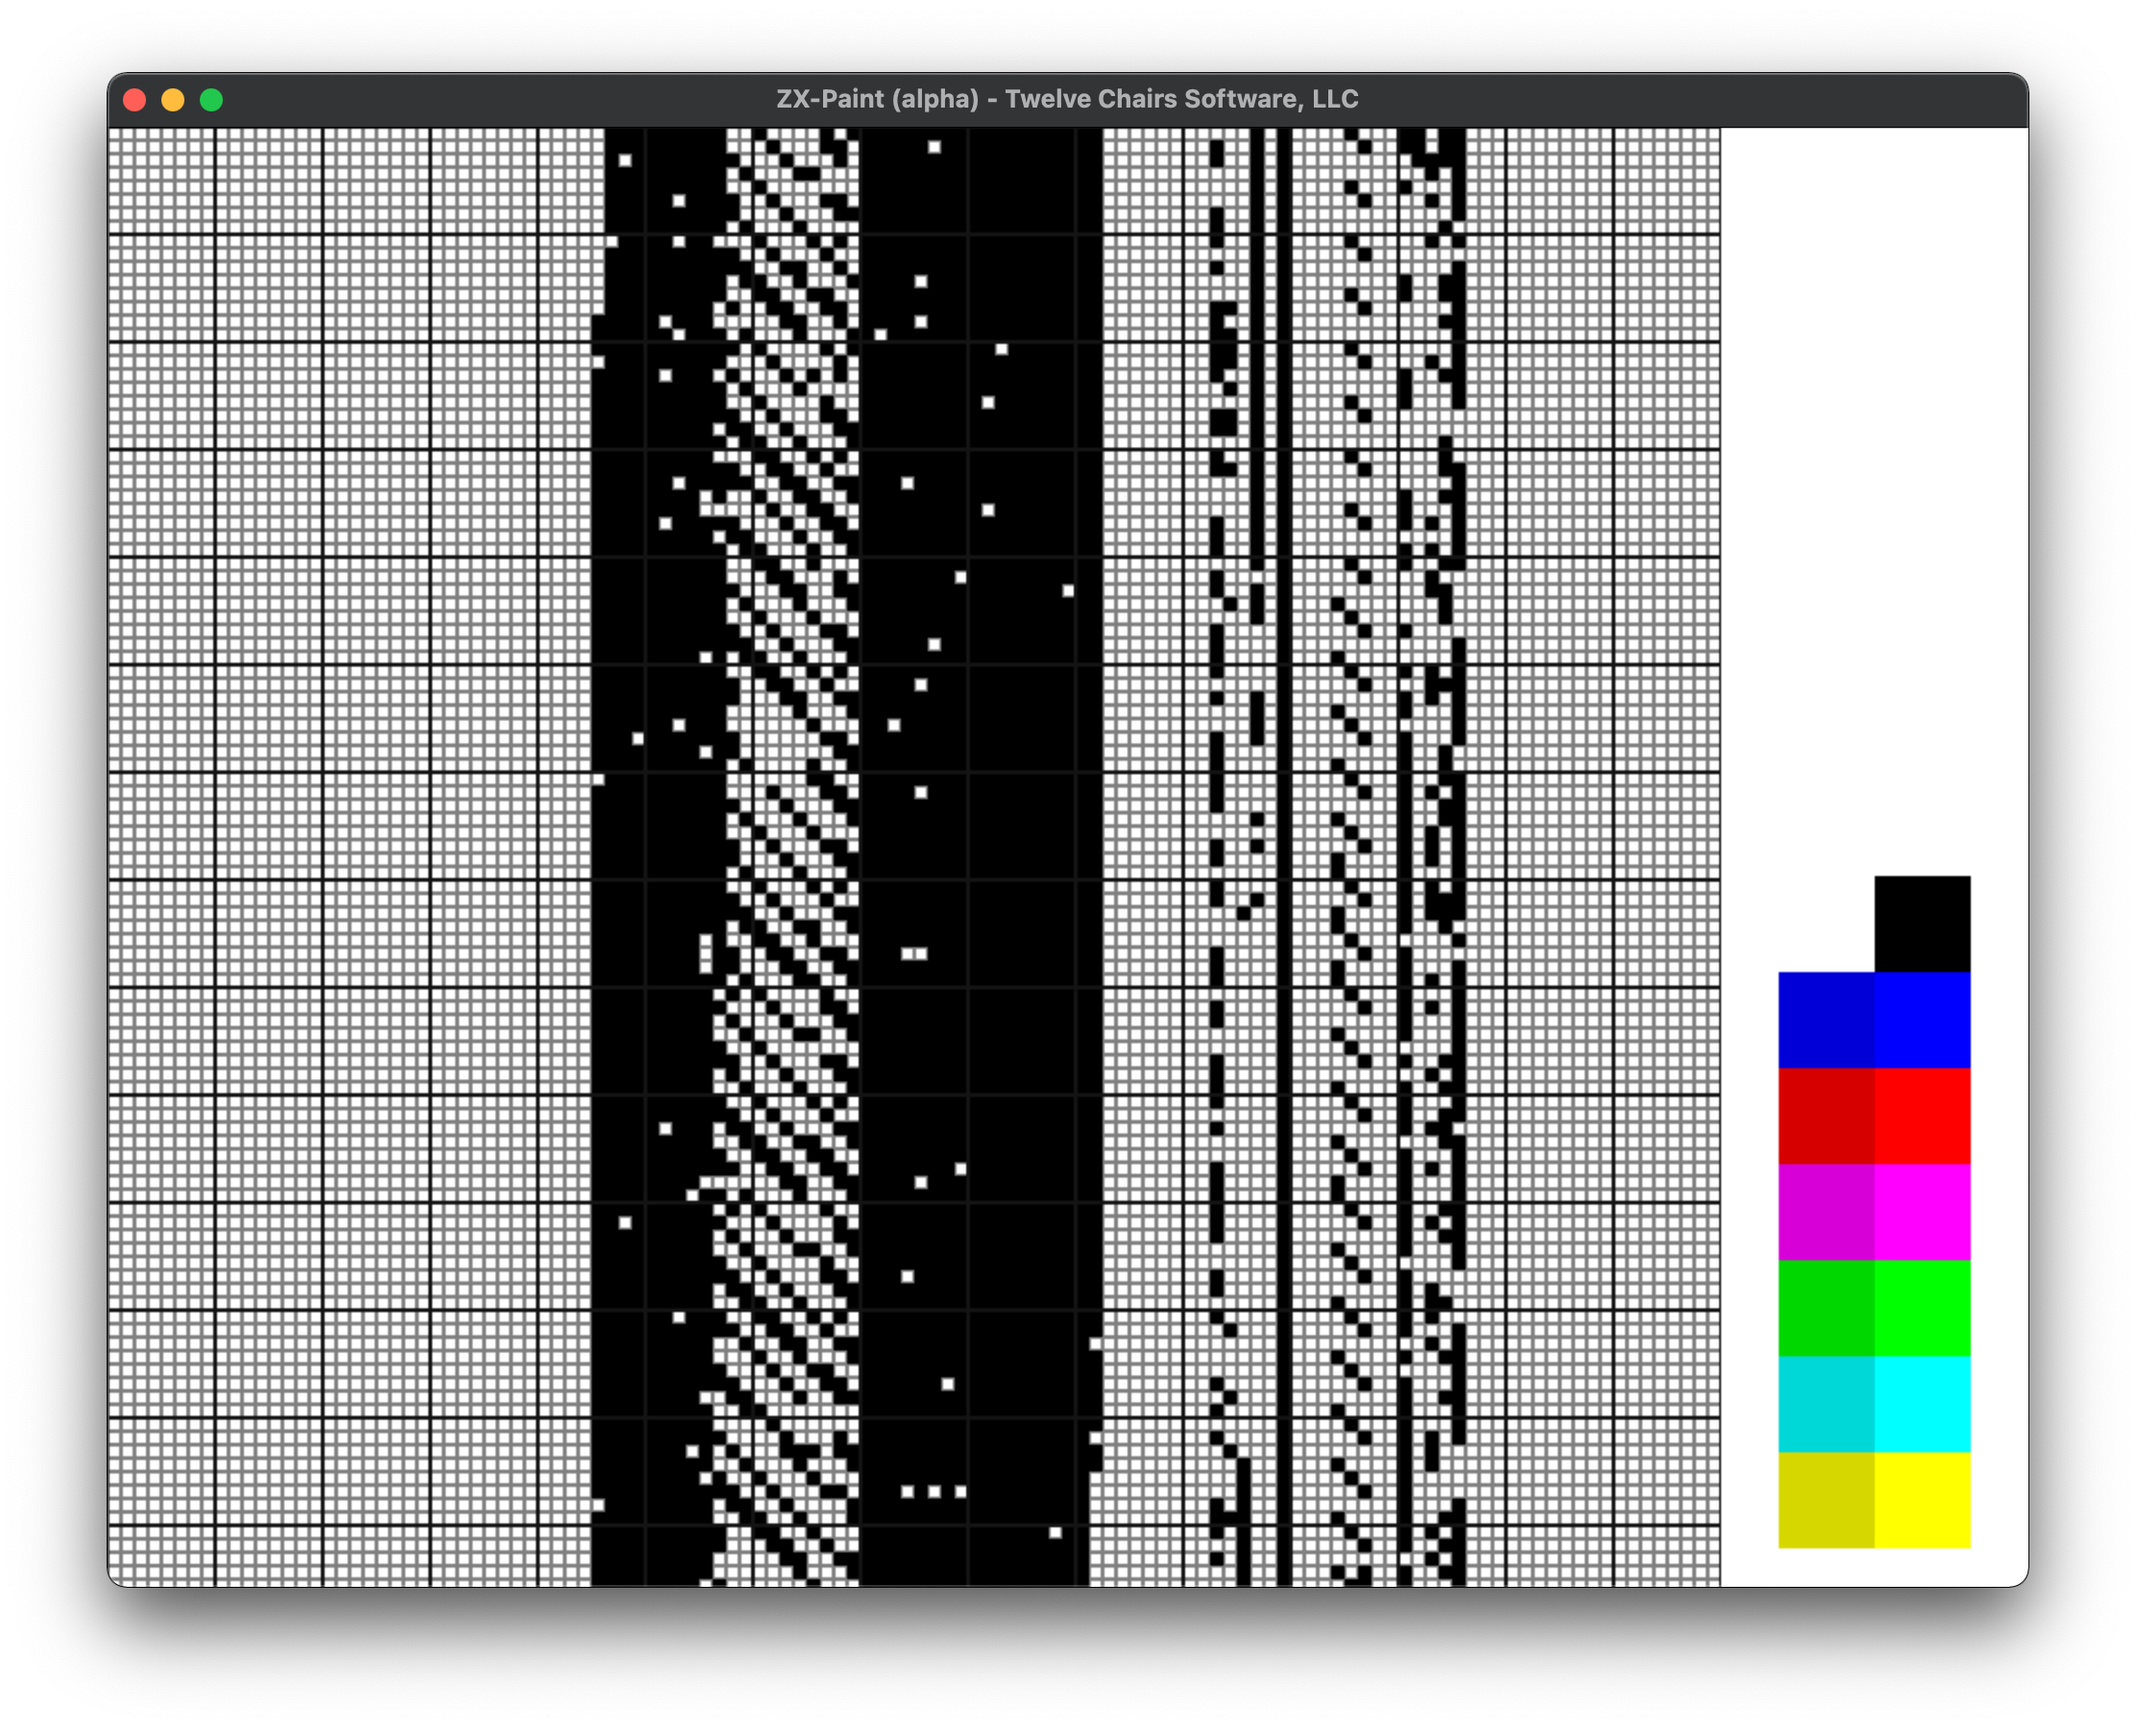
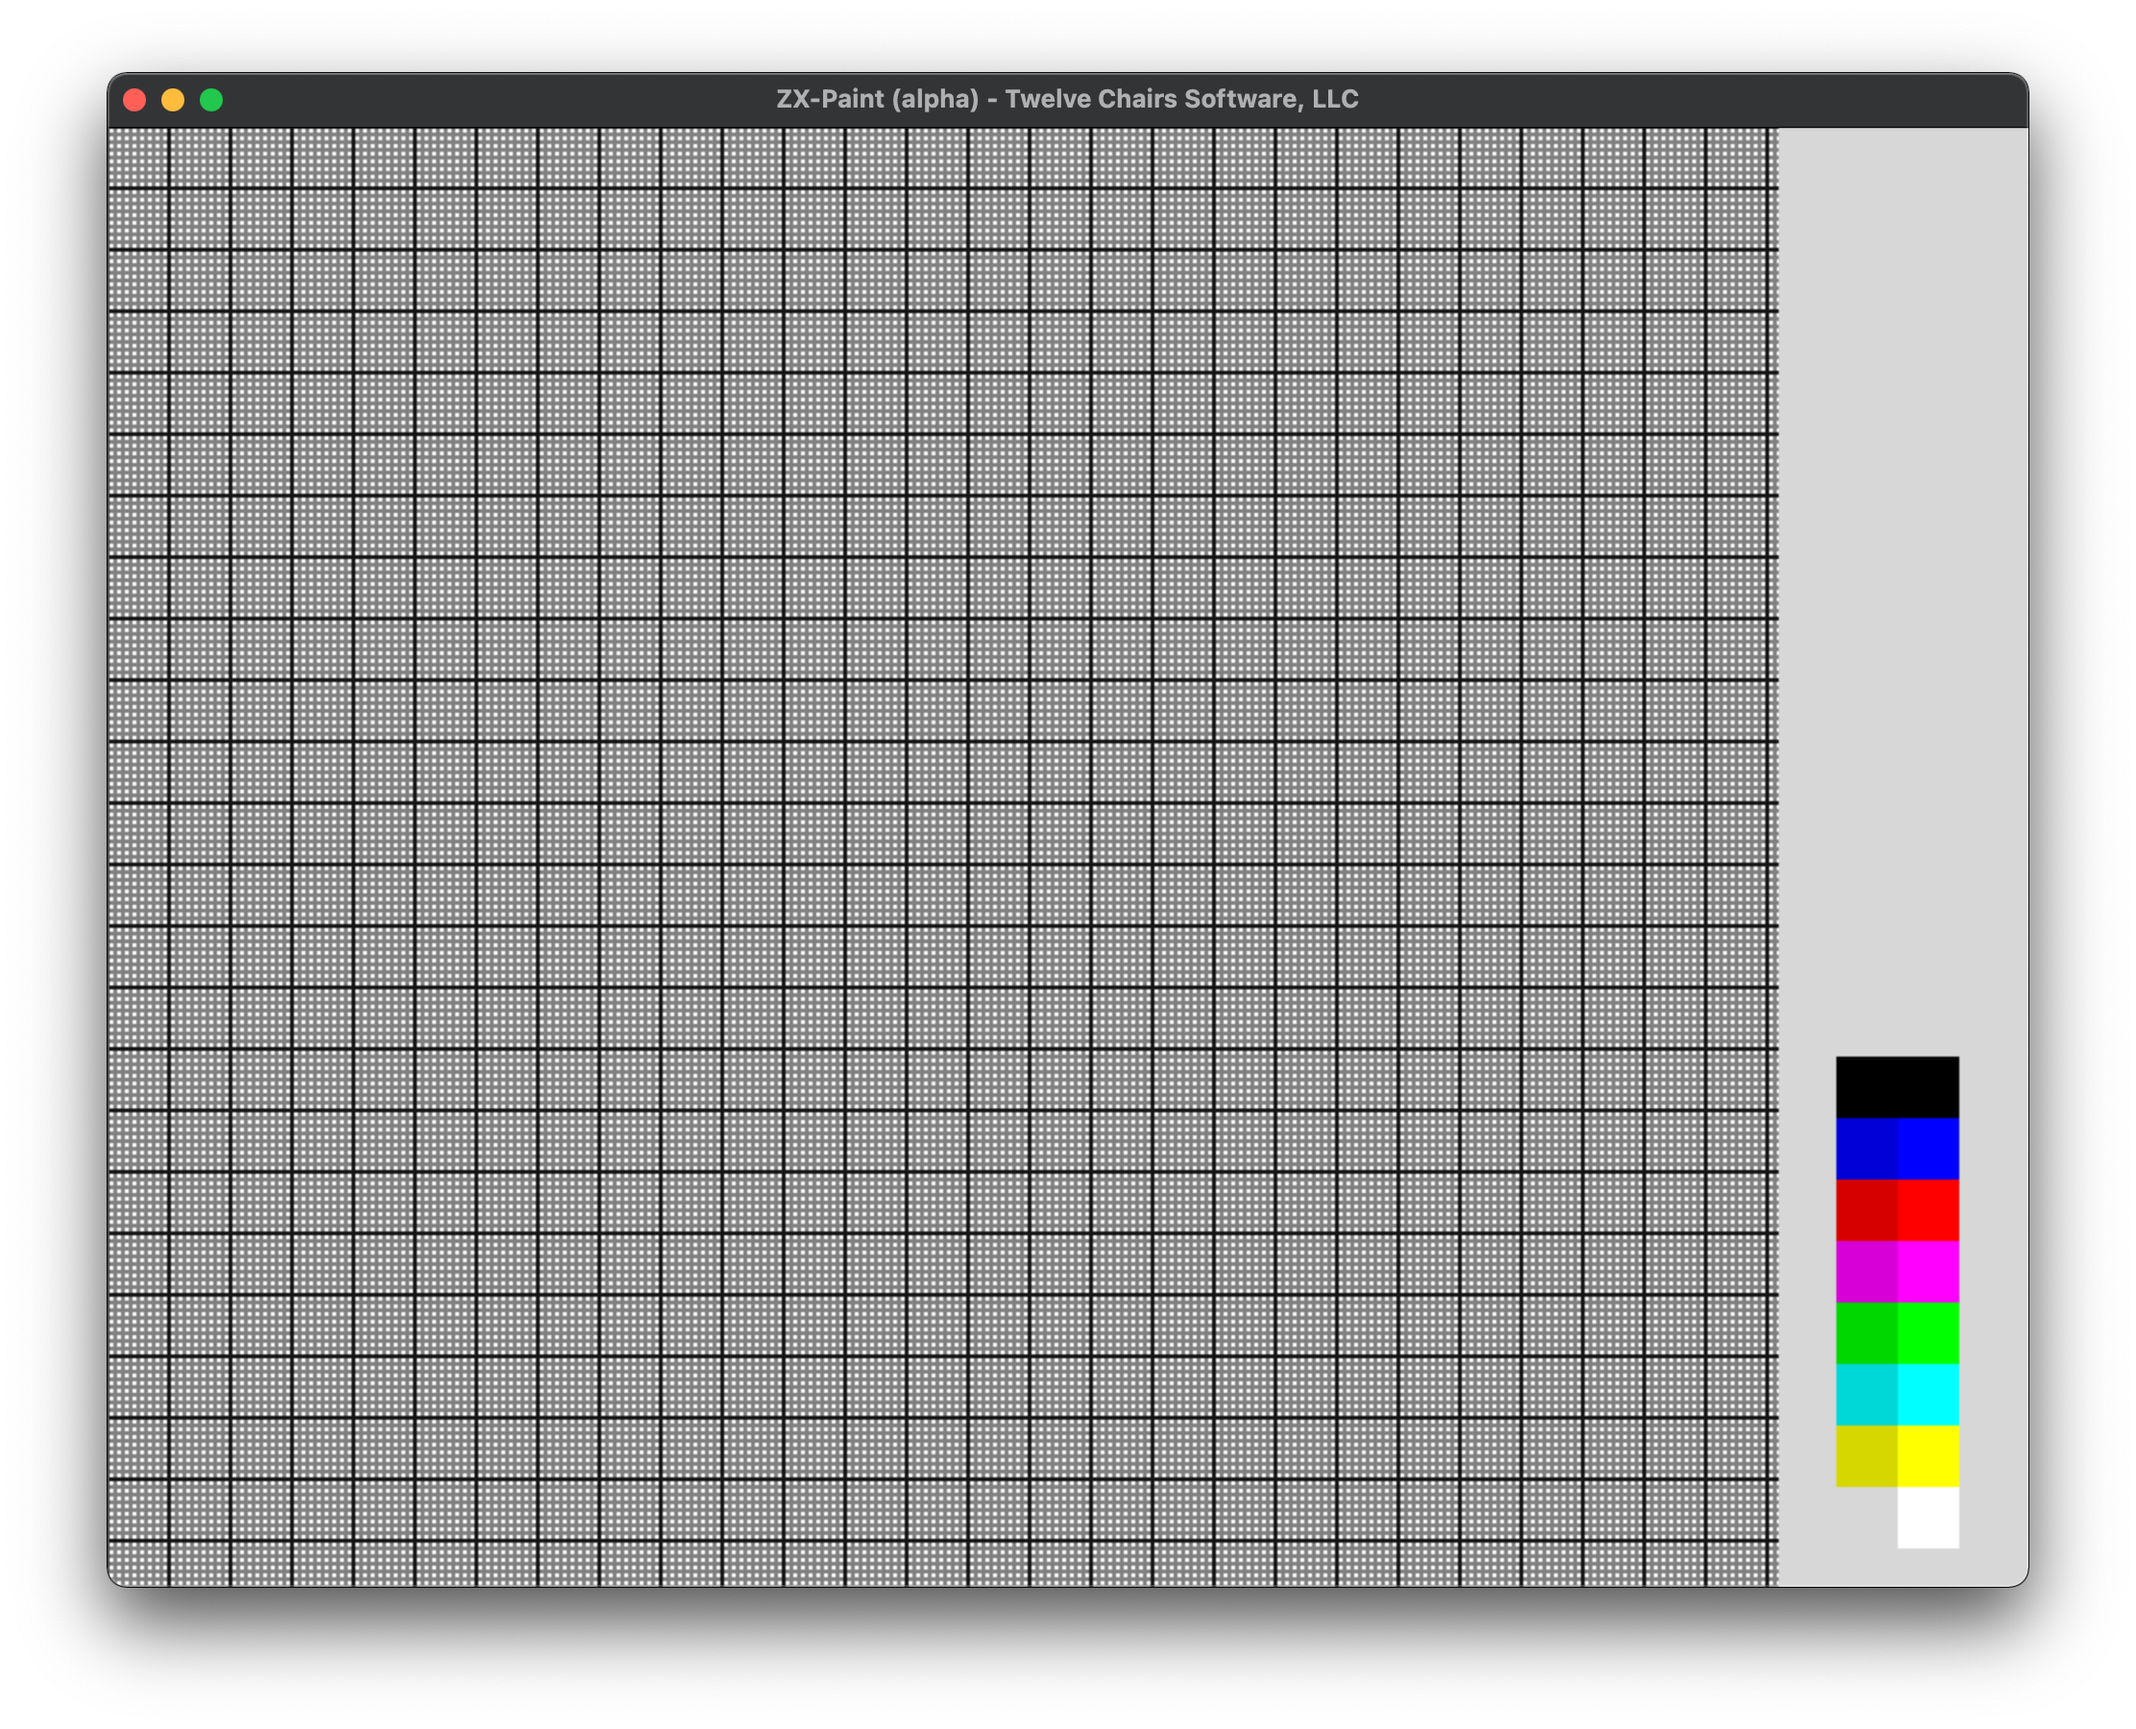
Sizing

diff --git a/main.cpp b/main.cpp
@@ -44,17 +44,17 @@ void exitSDL(){
 }
 
 void rightMenu(SDL_Renderer* parentRenderer){
-    SDL_Rect fillRect = {maxScreenWidth - 160, 0, 160, maxScreenHeight};
+    SDL_Rect fillRect = {maxScreenWidth - 130, 0, 130, maxScreenHeight};
     SDL_SetRenderDrawColor(parentRenderer, 215, 215, 215, SDL_ALPHA_TRANSPARENT);
     SDL_RenderFillRect(parentRenderer, &fillRect);
 }
 
 void colorSelector(SDL_Renderer* parentRenderer){
-    int colorWidth = 50;
-    int colorHeight = 50;
+    int colorWidth = 32;
+    int colorHeight = 32;
     int allColors = (colorHeight * 8);
 
-    int startingPositionX = maxScreenWidth - 130;
+    int startingPositionX = maxScreenWidth - 100;
     int startingPositionY = (maxScreenHeight - allColors) - 20;
     int temp_index = 0;
 
@@ -65,7 +65,7 @@ void colorSelector(SDL_Renderer* parentRenderer){
         temp_index++;
     }
 
-    startingPositionX = maxScreenWidth - (130 - colorWidth);
+    startingPositionX = maxScreenWidth - (100 - colorWidth);
     temp_index = 0;
     for (auto color: colorPalette1) {
         SDL_Rect fillRect = {startingPositionX, (temp_index * colorHeight) + startingPositionY, colorWidth, colorHeight};
@@ -119,7 +119,6 @@ int main(int argc, char* args[]){
 
         // 256x192 (1x1)
         pixels = {255, std::vector<bool>(191,false)};
-
         // 32x24 (8x8)
         attributes = {31, std::vector<bool>(23,false)};
 
@@ -159,24 +158,31 @@ int main(int argc, char* args[]){
                             }
                             break;
                         case SDL_MOUSEBUTTONDOWN:
+//                            SDL_GetMouseState(&mouseLocation.x, &mouseLocation.y);
+                            mouseLocation.clicked = true;
+                            break;
+                        case SDL_MOUSEBUTTONUP:
 //                            showGrid = !showGrid;
-                            int x, y;
-                            SDL_GetMouseState(&x, &y);
-                            x = x / pixelSize;
-                            y = y / pixelSize;
-                            pixels[x][y] = !pixels[x][y];
+                            mouseLocation.clicked = false;
+//                            pixels[mouseLocation.x / pixelSize][mouseLocation.y / pixelSize] = !pixels[mouseLocation.x / pixelSize][mouseLocation.y / pixelSize];
                             break;
-                        case SDL_MOUSEWHEEL:
-                            if(e.wheel.y > 0) // scroll up
-                            {
-                                pixelSize < 30 ? pixelSize++ : pixelSize = 30;
+                        case SDL_MOUSEMOTION:
+                            SDL_GetMouseState(&mouseLocation.x, &mouseLocation.y);
+                            if (mouseLocation.clicked){
+                                pixels[mouseLocation.x / pixelSize][mouseLocation.y / pixelSize] = !pixels[mouseLocation.x / pixelSize][mouseLocation.y / pixelSize];
                             }
-                            else if(e.wheel.y < 0) // scroll down
-                            {
-                                pixelSize > 2 ? pixelSize-- : pixelSize = 2;
-                            }
-                            attributeSize = pixelSize * 8;
-                            break;
+//                        case SDL_MOUSEWHEEL:
+//                            if (!mouseLocation.clicked) {
+//                                if (e.wheel.y > 0) // scroll up
+//                                {
+//                                    pixelSize < 30 ? pixelSize++ : pixelSize = 30;
+//                                } else if (e.wheel.y < 0) // scroll down
+//                                {
+//                                    pixelSize > 2 ? pixelSize-- : pixelSize = 2;
+//                                }
+//                                attributeSize = pixelSize * 8;
+//                            }
+//                            break;
                         case SDL_KEYDOWN:
                             break;
                     }

diff --git a/main.h b/main.h
@@ -55,6 +55,12 @@ rgb colorPalette1[] = {
         rgb{255, 255, 255} //WHITE1
 };
 
+struct mouseLocation {
+    int x;
+    int y;
+    bool clicked;
+} mouseLocation;
+
 //bool pixels[191][255] = {false};
 std::vector<std::vector<bool>> pixels;
 
